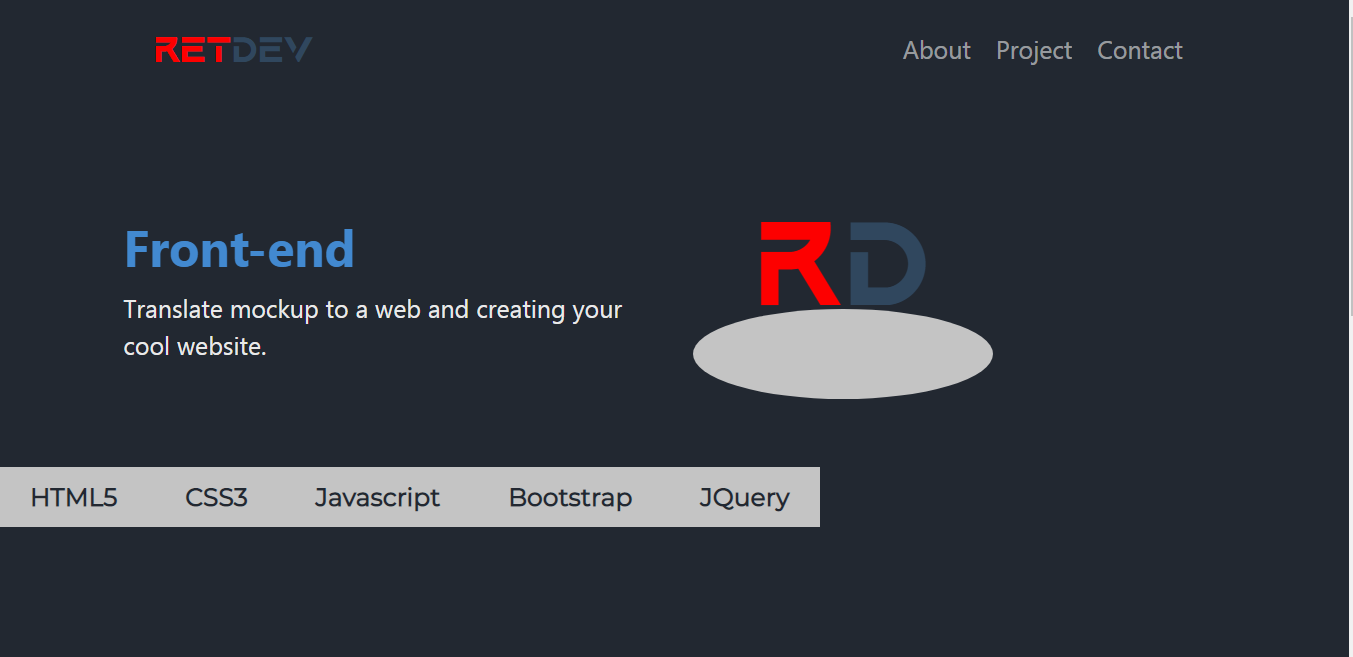
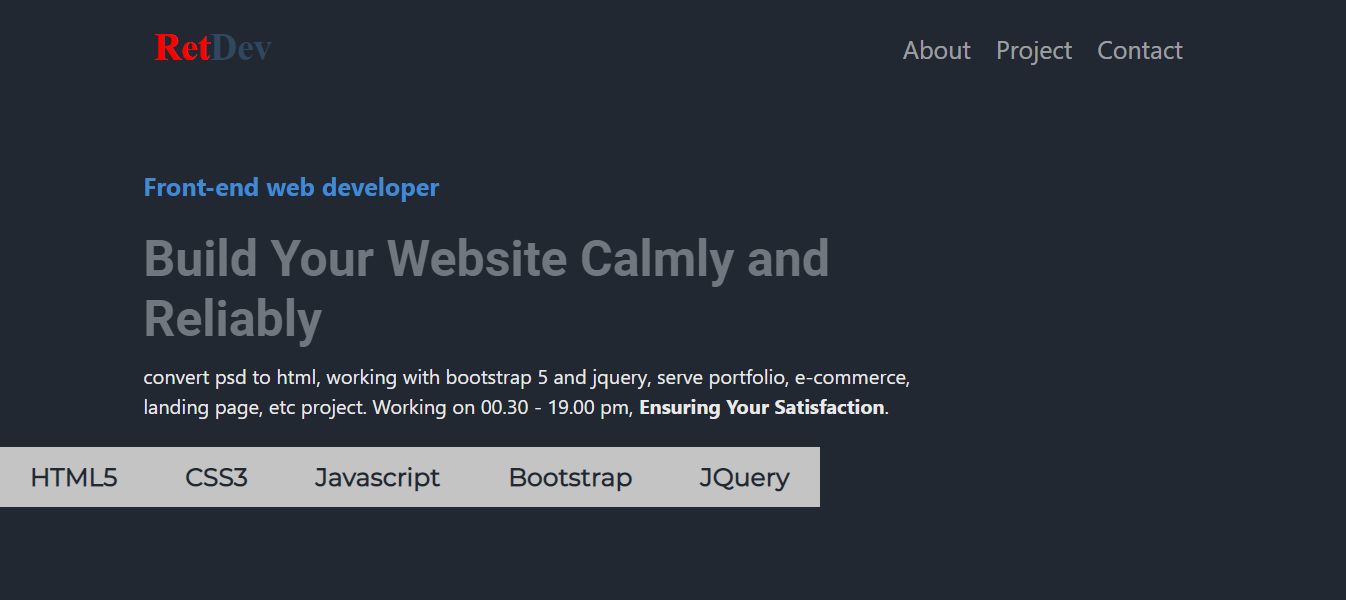
change image

diff --git a/index.html b/index.html
@@ -44,15 +44,9 @@
             <div class="row">
                 <div class="content ">
                   <p><strong class="job">Front-end web developer</strong></p>
-                  <h2 class="title">Build Your Website Calmly and Reliably</h2>
+                  <h1 class="title">Build Your Website Calmly and Reliably</h1>
                   <p class="skill-description">convert psd to html, working with bootstrap 5 and jquery, serve portfolio, e-commerce, landing page, etc project. Working on 00.30 - 19.00 pm,  <strong>Ensuring Your Satisfaction</strong>.</p>
                 </div>
-                <!-- <div class="col">
-                    <div class="rd-logo">
-                        <h2 class="logo">r<span>d</span></h2>
-                        <div class="hole"></div>
-                    </div>
-                </div> -->
               </div>
             </div>
             <div class="skills">
@@ -90,13 +84,13 @@
           </div>
           <div class="carousel-inner">
             <div class="carousel-item active">
-              <img src="img/project/project1.png" class="d-block w-100" alt="...">
+              <a href="https://retdv.github.io" class="d-block w-100" target="_blank"><img src="img/project/project1.png" class="img-fluid" alt="project1"></a>
             </div>
             <div class="carousel-item">
-              <img src="img/project/project2.png" class="d-block w-100" alt="...">
+              <a href="https://retdv.github.io/restaurant1" class="d-block w-100" target="_blank"><img src="img/project/project2.png" class="img-fluid" alt="project2"></a>
             </div>
             <div class="carousel-item">
-              <img src="img/project/project3.png" class="d-block w-100" alt="...">
+              <a href="https://retdv.github.io/portfoliov2" class="d-block w-100" target="_blank"><img src="img/project/project3.png" class="img-fluid" alt="project3"></a>
             </div>
           </div>
           <button class="carousel-control-prev" type="button" data-bs-target="#carouselExampleIndicators" data-bs-slide="prev">

diff --git a/css/style.css b/css/style.css
@@ -1,6 +1,20 @@
 :root {
   font-size: 25px;
 }
+/* scroll bar custom */
+body::-webkit-scrollbar {
+  width: 7px;
+}
+
+body::-webkit-scrollbar-track {
+  box-shadow: inset 0 0 6px rgba(0, 0, 0, 0.3);
+}
+
+body::-webkit-scrollbar-thumb {
+  background-color: darkgrey;
+  outline: 1px solid slategrey;
+  border-radius: 3px;
+}
 
 html,
 body {
@@ -36,7 +50,7 @@ section {
 
 .navbar-brand {
   font-weight: bold !important;
-  font-family: 'aquire';
+  font-family: "aquire";
   color: #fd0000 !important;
   font-size: 1.5rem;
 }
@@ -47,8 +61,7 @@ section {
 
 .title {
   color: #71777e;
-  font-family: 'roboto';
-  font-weight: bold;
+  font-family: "roboto";
 }
 
 .job {
@@ -75,7 +88,7 @@ section {
 
 .logo {
   font-weight: bold !important;
-  font-family: 'aquire';
+  font-family: "aquire";
   color: #fd0000 !important;
   font-size: 5rem;
   line-height: 80px;
@@ -101,16 +114,13 @@ section {
   width: 60vmax;
   background-color: #c4c4c4;
   padding: 30px;
-  font: bold 1rem/0 'montserrat';
-  margin-top: 80px;
+  font: bold 1rem/0 "montserrat";
+  margin-top: 100px;
 }
 /* fix skills tab size */
 @media only screen and (max-width: 768px) {
   body {
     overflow: hidden;
-  }
-  :root {
-    font-size: 20px;
   }
 
   .skills {
@@ -125,11 +135,15 @@ section.about {
 }
 .text {
   color: #e9e9e9;
-  font-family: 'montserrat';
+  font-family: "montserrat";
 }
 
 /* project section */
 @media only screen and (max-width: 768px) {
+  :root {
+    font-size: 16px;
+  }
+
   section.project {
     height: 50vh;
   }
